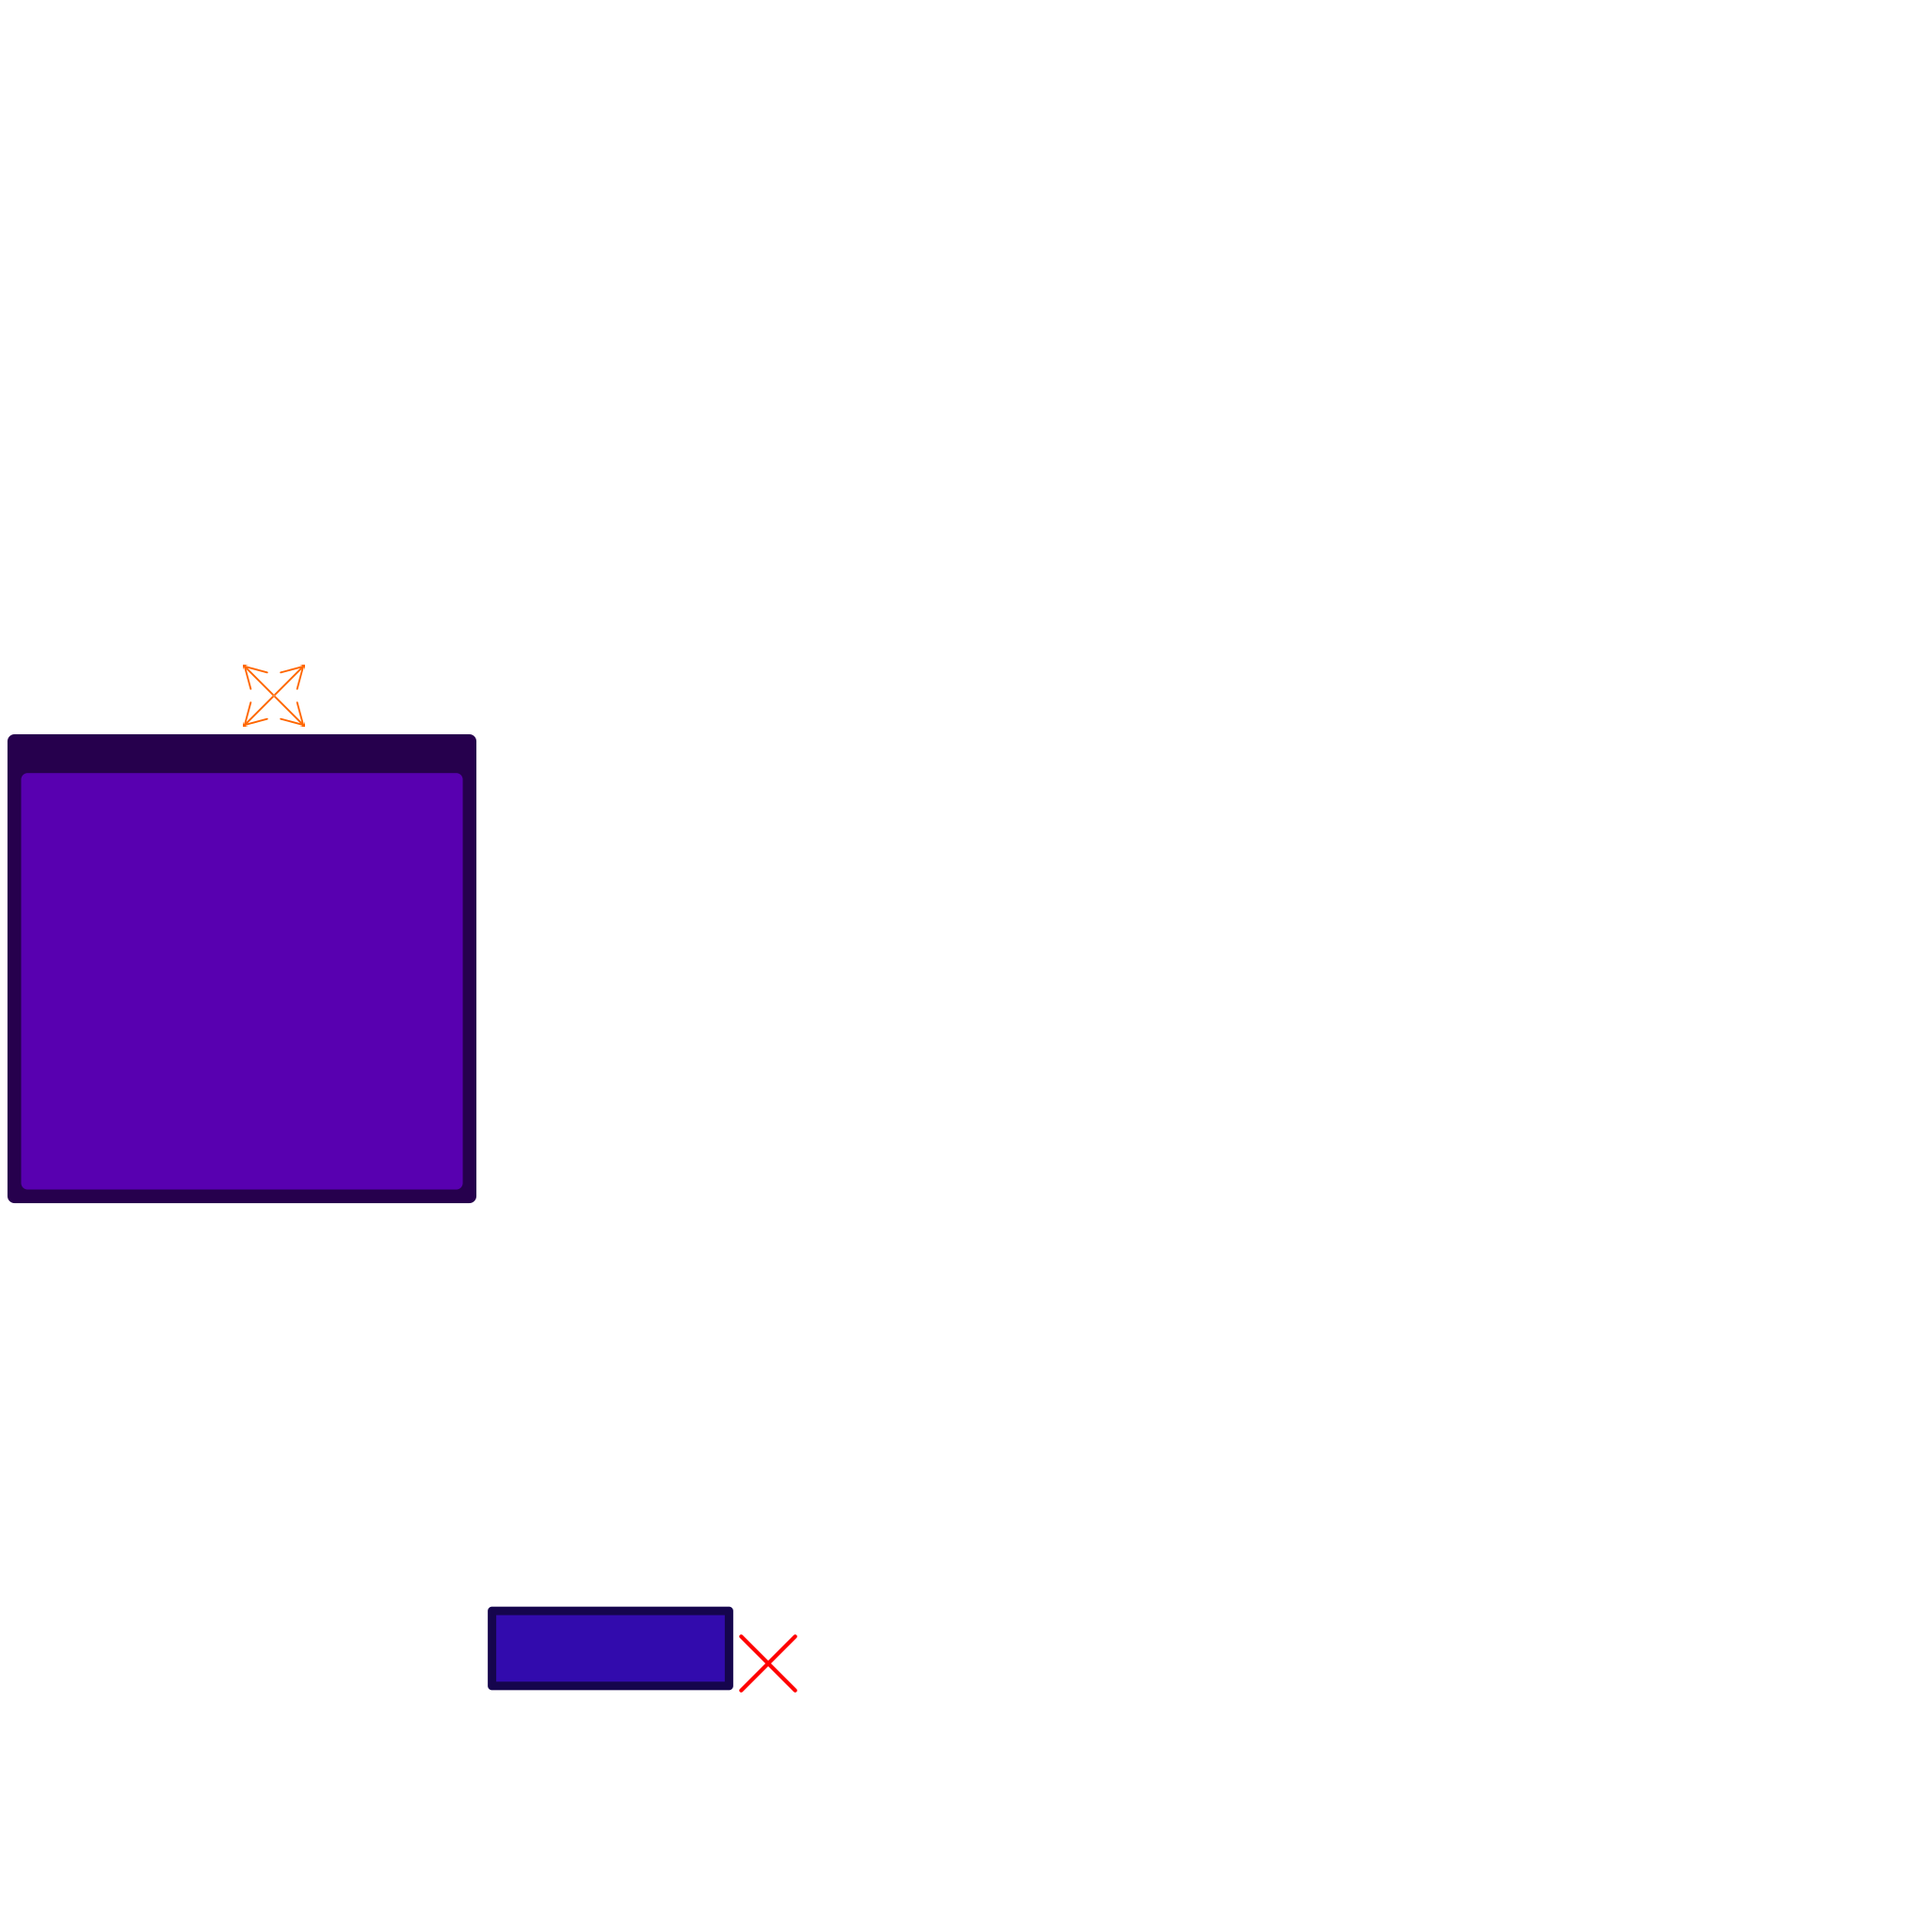
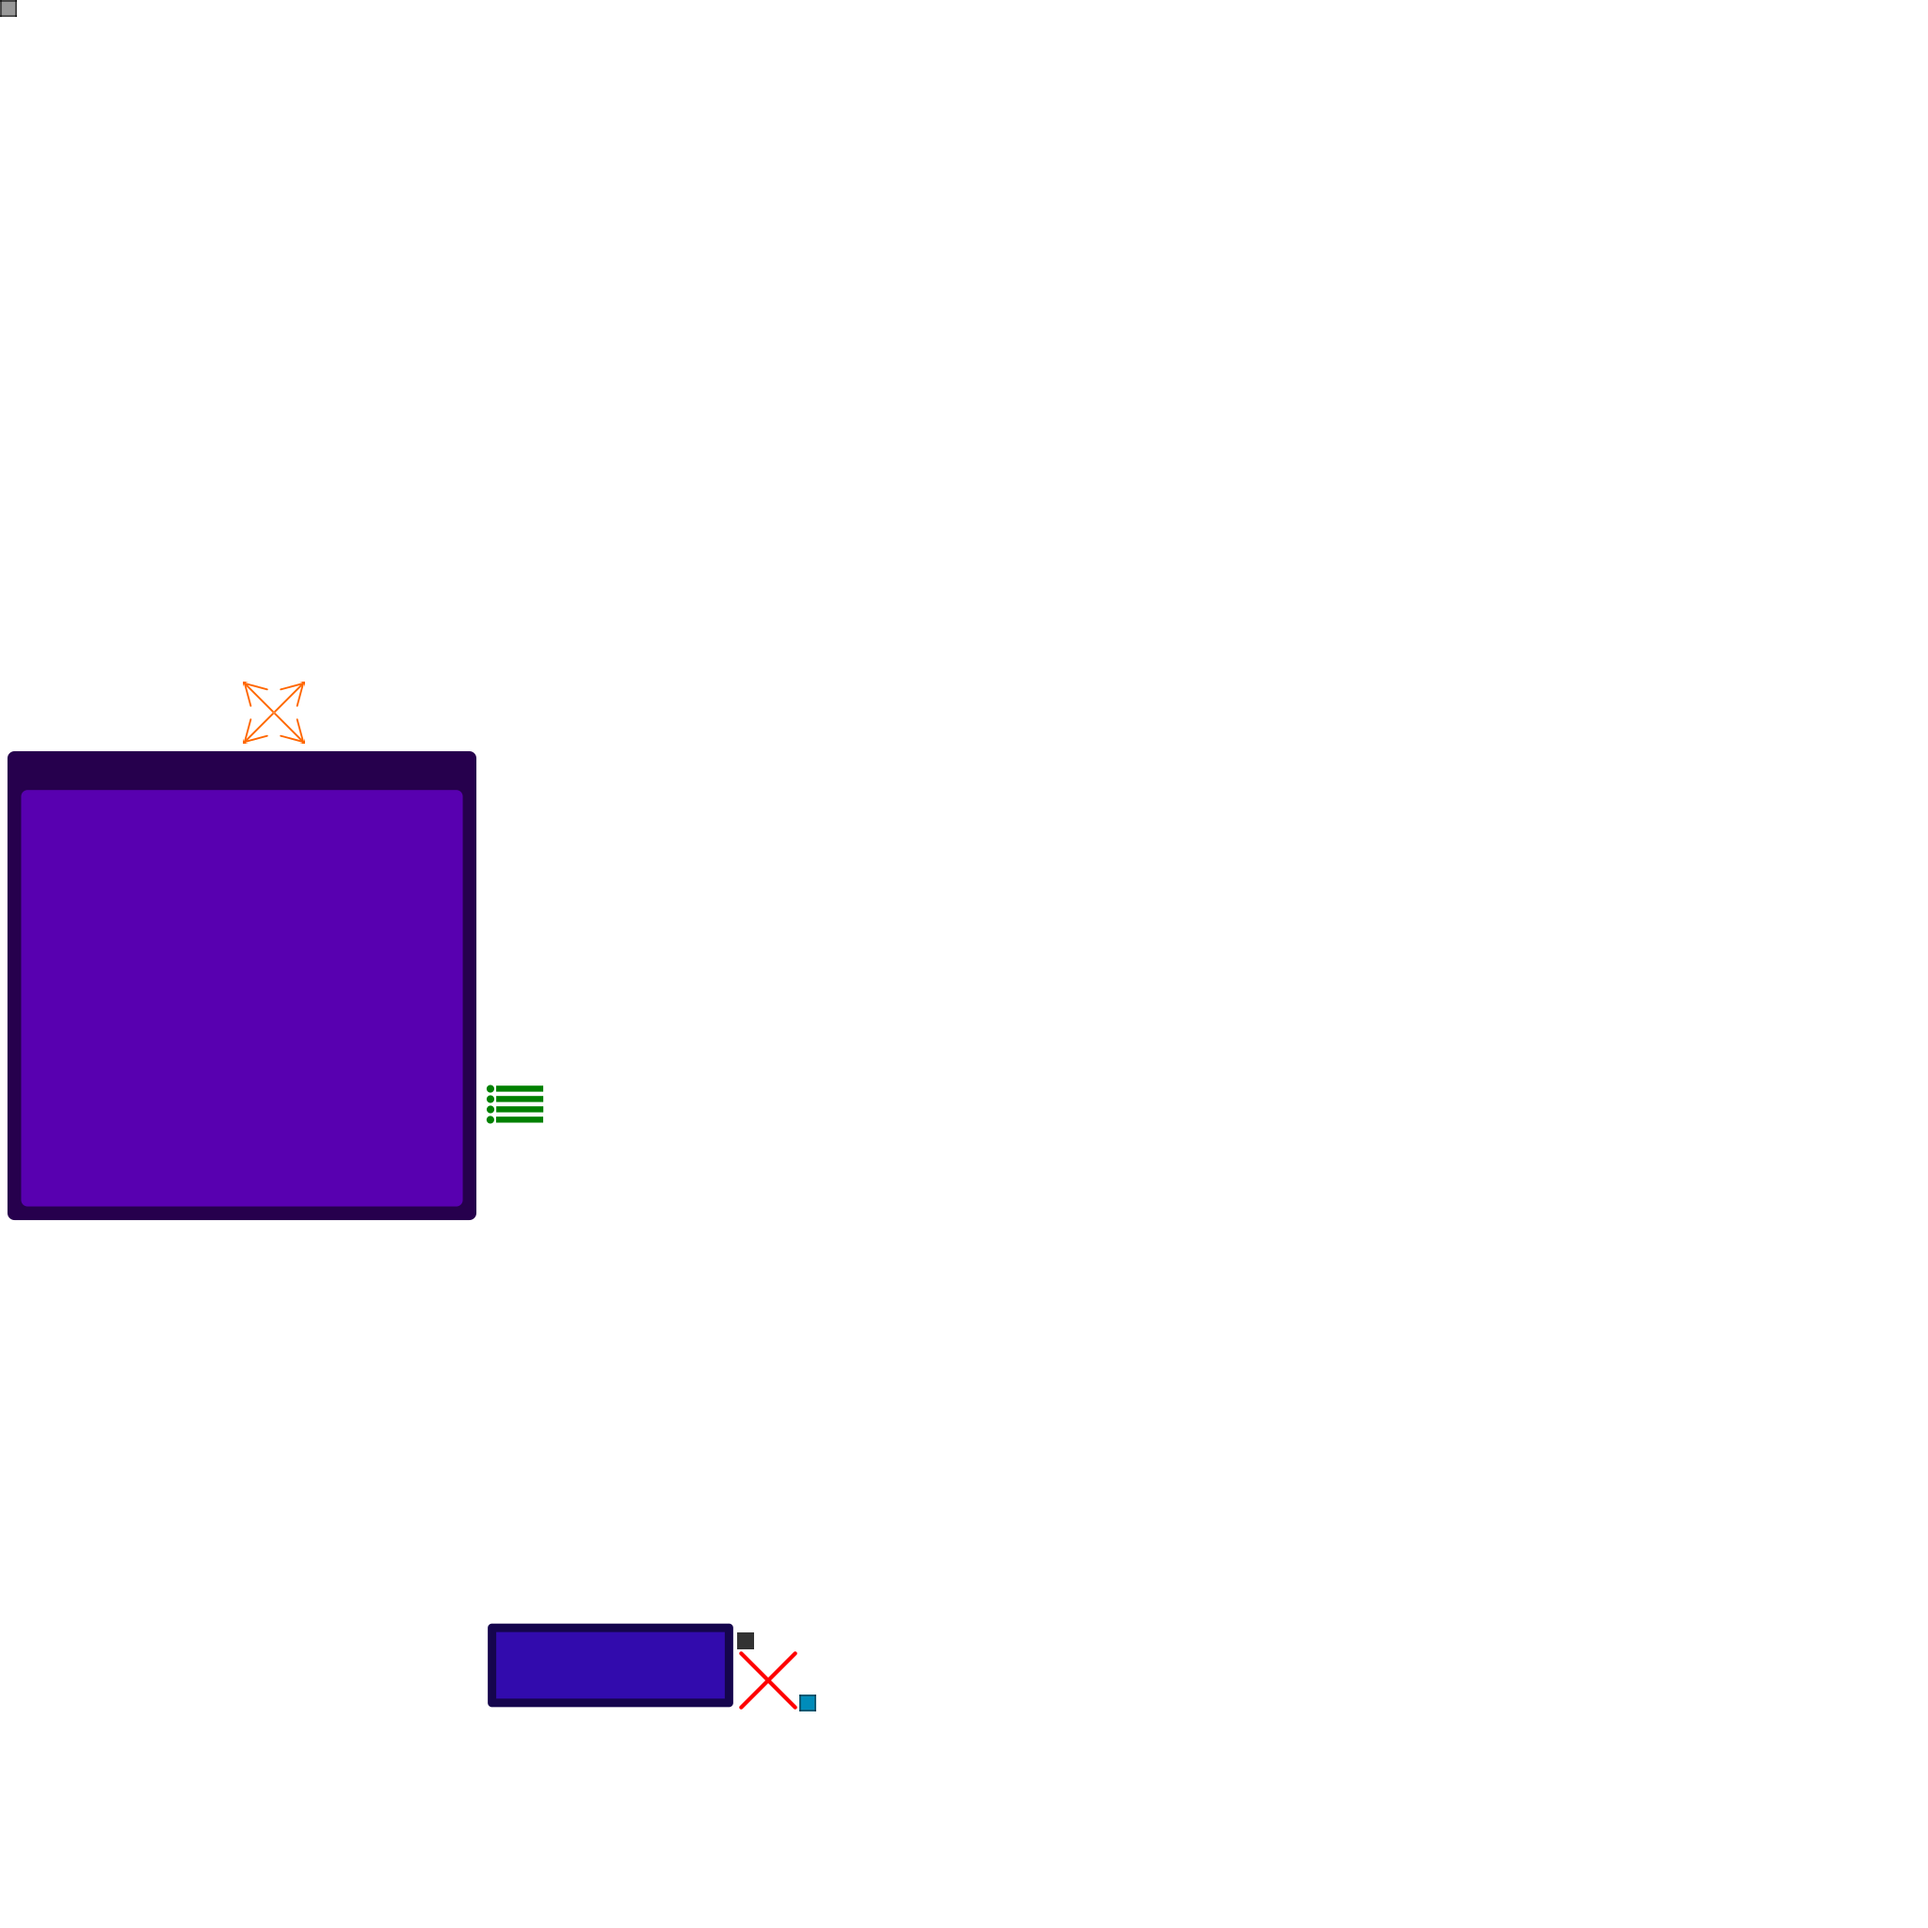
Add window actions button (test), UI widgets: scroll, list-selection

diff --git a/core/src/foss/tfb/ulands/ui/DefaultWindow.java b/core/src/foss/tfb/ulands/ui/DefaultWindow.java
@@ -1,21 +1,29 @@
 package foss.tfb.ulands.ui;
 
+import com.badlogic.gdx.graphics.Color;
 import com.badlogic.gdx.graphics.g2d.Batch;
 import com.badlogic.gdx.graphics.glutils.ShapeRenderer;
 import com.badlogic.gdx.scenes.scene2d.InputEvent;
 import com.badlogic.gdx.scenes.scene2d.Stage;
 import com.badlogic.gdx.scenes.scene2d.ui.Button;
+import com.badlogic.gdx.scenes.scene2d.ui.SelectBox;
 import com.badlogic.gdx.scenes.scene2d.ui.Skin;
 import com.badlogic.gdx.scenes.scene2d.ui.Window;
 import com.badlogic.gdx.scenes.scene2d.utils.ClickListener;
+import com.badlogic.gdx.scenes.scene2d.utils.Drawable;
 
 public class DefaultWindow extends Window {
 
     public static final String CLOSE_BUTTON_STYLE = "close-button";
     public static final String ENLARGE_BUTTON_STYLE = "enlarge-button";
+    public static final String SUBMENU_BUTTON_STYLE = "actions-list-style";
 
     protected boolean closeButtonEnabled = true;
     protected boolean enlargeButtonEnabled = true;
+
+    public boolean intendedToBeEnlarged = false;
+    public float lastW, lastH = 0;
+    public float lastX, lastY = 0;
 
     public DefaultWindow(String title, Skin skin) {
         super(title, skin);
@@ -42,6 +50,7 @@ public class DefaultWindow extends Window {
         this.padTop(48);
         this.setRotation(0);
 
+        this.subMenuButton();
         this.enlargeButton();
         this.closeButton();
 
@@ -67,19 +76,17 @@ public class DefaultWindow extends Window {
                 .padTop(5);
     }
 
+
+
+
     public void enlargeButton()
     {
         if(!enlargeButtonEnabled) return;
 
         final Button enlargeButton = new Button(this.getSkin(), DefaultWindow.ENLARGE_BUTTON_STYLE);
+
         // TODO: enlarge button animation
         enlargeButton.addListener(new ClickListener() {
-
-            // TODO: move to DefaultWindow class
-            private boolean intendedToBeEnlarged = false;
-            private float lastW, lastH = 0;
-            private float lastX, lastY = 0;
-
             @Override
             public void clicked(InputEvent event, float x, float y) {
                 Stage stage = getStage();
@@ -90,16 +97,56 @@ public class DefaultWindow extends Window {
                     lastX = getX();
                     lastY = getY();
                     setBounds(0, 0, stage.getWidth(),stage.getHeight());
+                    intendedToBeEnlarged = !intendedToBeEnlarged;
                 } else {
                     setBounds(lastX, lastY, lastW, lastH);
+                    // intendedToBeEnlarged will already be false as size would change
                 }
 
-                intendedToBeEnlarged = !intendedToBeEnlarged;
             }
         });
 
         getTitleTable()
                 .add(enlargeButton)
+                .size(32, 32)
+                .padRight(10)
+                .padTop(5);
+    }
+
+    public void subMenuButton()
+    {
+        if(!enlargeButtonEnabled) return;
+
+        // TODO: make dedicated ActionsListBox class
+        final SelectBox<String> subMenuButton = new SelectBox<String>(this.getSkin(), DefaultWindow.SUBMENU_BUTTON_STYLE){
+            @Override
+            public void draw (Batch batch, float parentAlpha) {
+                validate();
+
+                Drawable background = getBackgroundDrawable();
+
+                Color color = getColor();
+                float x = getX(), y = getY();
+                float width = getWidth(), height = getHeight();
+
+                batch.setColor(color.r, color.g, color.b, color.a * parentAlpha);
+                if (background != null)
+                    background.draw(batch, x, y, width, height);
+
+            }
+        };
+
+        subMenuButton.getList().addListener(new ClickListener() {
+            public void clicked (InputEvent event, float x, float y) {
+                // TODO: fix input lag
+                System.out.println(subMenuButton.getSelected());
+            }
+        });
+
+        subMenuButton.setItems("item0", "item1", "item2");
+
+        getTitleTable()
+                .add(subMenuButton)
                 .size(32, 32)
                 .padRight(10)
                 .padTop(5);
@@ -117,6 +164,13 @@ public class DefaultWindow extends Window {
 //        shapeRenderer.rect(this.getX(), this.getY(), width, height);
 //        shapeRenderer.
 //        shapeRenderer.end();
+    }
+
+    @Override
+    protected void sizeChanged()
+    {
+        super.sizeChanged();
+        intendedToBeEnlarged = false;
     }
 
     public boolean isCloseButtonEnabled()
